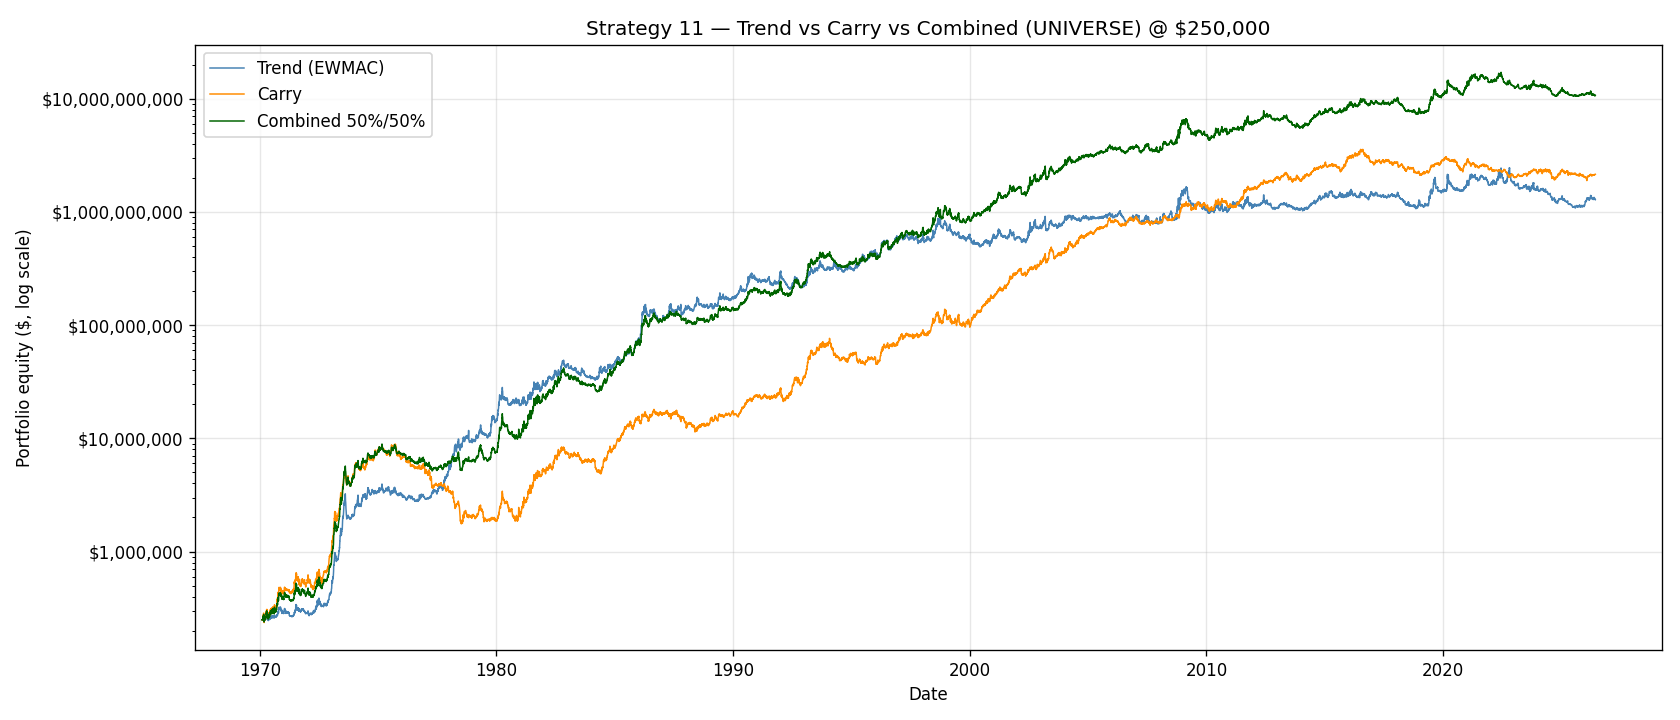
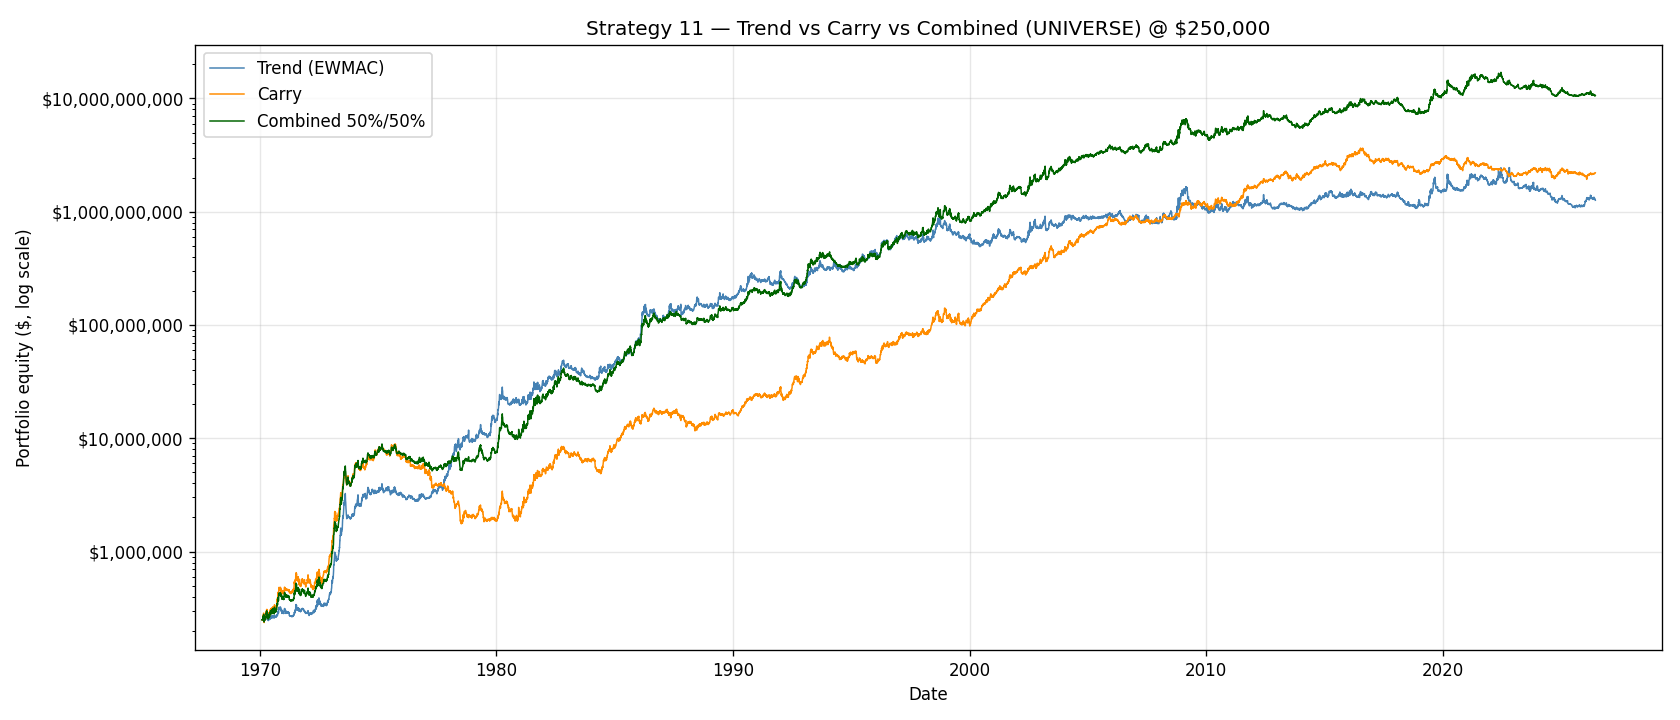
notes folder + correlation script

diff --git a/ibkr_fut/strategy_correlations.py b/ibkr_fut/strategy_correlations.py
@@ -1,0 +1,148 @@
+"""
+strategy_correlations.py — Pairwise return correlations across all trading strategies.
+
+Builds the combined universe ONCE (same as the live system), simulates each strategy
+over it, and reports:
+  • per-strategy performance stats
+  • pairwise correlation matrix (printed + saved as CSV)
+  • heatmap PNG
+
+To add a new strategy: append one (label, signal_fn) entry to STRATEGIES below.
+signal_fn must match the (spec, mp) -> {"sigma","forecast",...} | None contract.
+"""
+
+import sys
+import os
+import numpy as np
+import pandas as pd
+import matplotlib
+matplotlib.use("Agg")
+import matplotlib.pyplot as plt
+from tabulate import tabulate
+
+sys.path.insert(0, os.path.dirname(os.path.dirname(os.path.abspath(__file__))))
+from ibkr_fut.backtest_ewmac import pst, instrument_signals, TARGET_RISK
+from ibkr_fut.carry_signals import carry_instrument_signals
+from ibkr_fut.carry_trend_signals import carry_trend_instrument_signals, TREND_WEIGHT
+from ibkr_fut.backtest_dynamic import _build_universe, _simulate, get_eligible_set, RESULTS_DIR
+from ibkr_fut.backtest_carry_trend_dynamic import _forecast_panel, _combined_signal
+from ibkr_fut.instrument_universe import UNIVERSE
+
+DEFAULT_CAPITAL = 250_000
+
+
+def _trend_signal(spec, mp):
+    return instrument_signals(spec)
+
+
+# ── Strategy registry ─────────────────────────────────────────────────────────
+# Add new strategies here. Each entry is (label, signal_fn).
+# signal_fn(spec, mp) -> {"sigma", "forecast", ...} | None
+STRATEGIES = [
+    ("Trend (EWMAC)",                            _trend_signal),
+    ("Carry",                                    carry_instrument_signals),
+    (f"Combined {TREND_WEIGHT:.0%}/{1-TREND_WEIGHT:.0%}", _combined_signal),
+]
+# ─────────────────────────────────────────────────────────────────────────────
+
+
+def run_correlations(
+    instruments: dict[str, str],
+    capital: float = DEFAULT_CAPITAL,
+    target_risk: float = TARGET_RISK,
+) -> pd.DataFrame:
+    """
+    Build the combined (live) universe once, simulate each strategy over it, and
+    compute pairwise correlations of daily returns.  Holding the universe fixed
+    isolates the forecast effect, exactly as the live system operates.
+    """
+    names = list(instruments.keys())
+    eligible = get_eligible_set(instruments)
+
+    print("\nBuilding combined universe (once)...")
+    built = _build_universe(
+        names, tradable_set=eligible,
+        signal_fn=_combined_signal, return_components=True,
+    )
+    if built is None:
+        print("No tradable instruments.")
+        return pd.DataFrame()
+    uni, specs, _ = built
+
+    daily_returns: dict[str, pd.Series] = {}
+    stats_rows = []
+
+    for label, fn in STRATEGIES:
+        print(f"Simulating {label} @ ${capital:,.0f} ...")
+        uni["forecast"] = _forecast_panel(uni, specs, fn)
+        res = _simulate(uni, capital, target_risk, use_costs=True, use_buffering=True,
+                        rolling_capital=False)
+        daily_returns[label] = res["equity"].pct_change().dropna()
+        st = res["stats"]
+        stats_rows.append({
+            "Strategy": label,
+            "SR":       st["sharpe_ratio"],
+            "Ret %":    st["mean_annual_return_pct"],
+            "Vol %":    st["std_dev_pct"],
+            "MaxDD %":  st["max_drawdown_pct"],
+            "Skew":     st["skew"],
+        })
+
+    # Align all return series to the common trading-day index
+    ret_df = pd.DataFrame(daily_returns).dropna()
+    corr = ret_df.corr()
+    labels = corr.columns.tolist()
+
+    # ── Stats table ───────────────────────────────────────────────────────────
+    print("\n" + "=" * 80)
+    print(f"STRATEGY STATS  |  fixed ${capital:,.0f}  |  costs + buffering  |  net of costs")
+    print("=" * 80)
+    print(tabulate(stats_rows, headers="keys", floatfmt=".2f", tablefmt="simple"))
+
+    # ── Correlation matrix ────────────────────────────────────────────────────
+    print("\n" + "=" * 80)
+    print("PAIRWISE RETURN CORRELATIONS  (daily, net-of-cost equity curves)")
+    print("=" * 80)
+    corr_rows = [{"Strategy": s, **{o: round(corr.loc[s, o], 3) for o in labels}}
+                 for s in labels]
+    print(tabulate(corr_rows, headers="keys", floatfmt=".3f", tablefmt="simple"))
+
+    # ── Heatmap ───────────────────────────────────────────────────────────────
+    os.makedirs(RESULTS_DIR, exist_ok=True)
+    n = len(labels)
+    fig, ax = plt.subplots(figsize=(max(6, n * 1.8), max(5, n * 1.4)))
+    im = ax.imshow(corr.values, vmin=-1, vmax=1, cmap="RdYlGn")
+    plt.colorbar(im, ax=ax, label="Pearson correlation")
+    ax.set_xticks(range(n))
+    ax.set_yticks(range(n))
+    ax.set_xticklabels(labels, rotation=30, ha="right", fontsize=9)
+    ax.set_yticklabels(labels, fontsize=9)
+    for i in range(n):
+        for j in range(n):
+            val = corr.values[i, j]
+            ax.text(j, i, f"{val:.2f}", ha="center", va="center",
+                    fontsize=11, fontweight="bold",
+                    color="black" if abs(val) < 0.7 else "white")
+    ax.set_title(f"Strategy return correlations  |  ${capital:,.0f}  |  costs+buffering",
+                 fontsize=11, pad=12)
+    plt.tight_layout()
+    heatmap_out = f"{RESULTS_DIR}/strategy_correlations.png"
+    plt.savefig(heatmap_out, dpi=120)
+    plt.close()
+    print(f"\nHeatmap  → {heatmap_out}")
+
+    csv_out = f"{RESULTS_DIR}/strategy_correlations.csv"
+    corr.to_csv(csv_out)
+    print(f"CSV      → {csv_out}")
+
+    return corr
+
+
+if __name__ == "__main__":
+    import argparse
+    parser = argparse.ArgumentParser(
+        description="Pairwise strategy return correlations + heatmap")
+    parser.add_argument("--capital", type=float, default=DEFAULT_CAPITAL,
+                        help=f"Capital level (default ${DEFAULT_CAPITAL:,.0f})")
+    args = parser.parse_args()
+    run_correlations(UNIVERSE, args.capital)